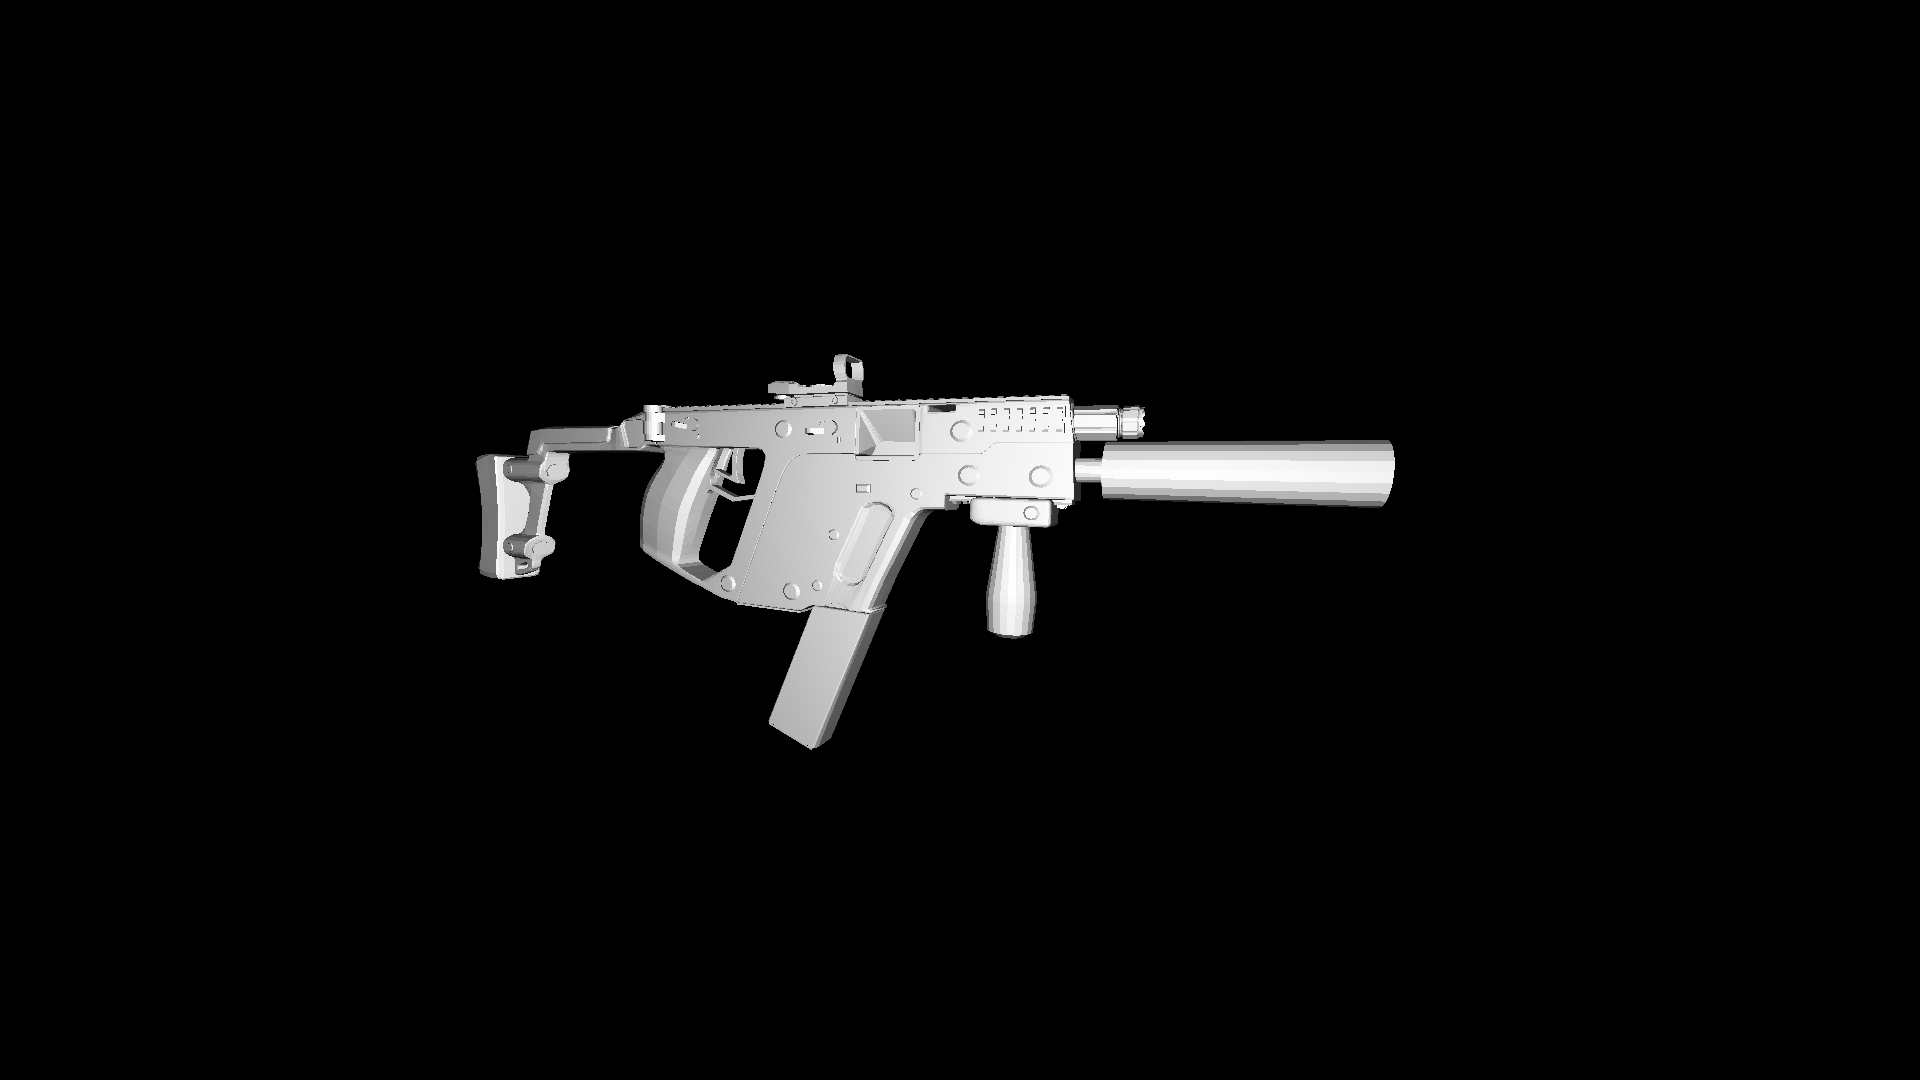
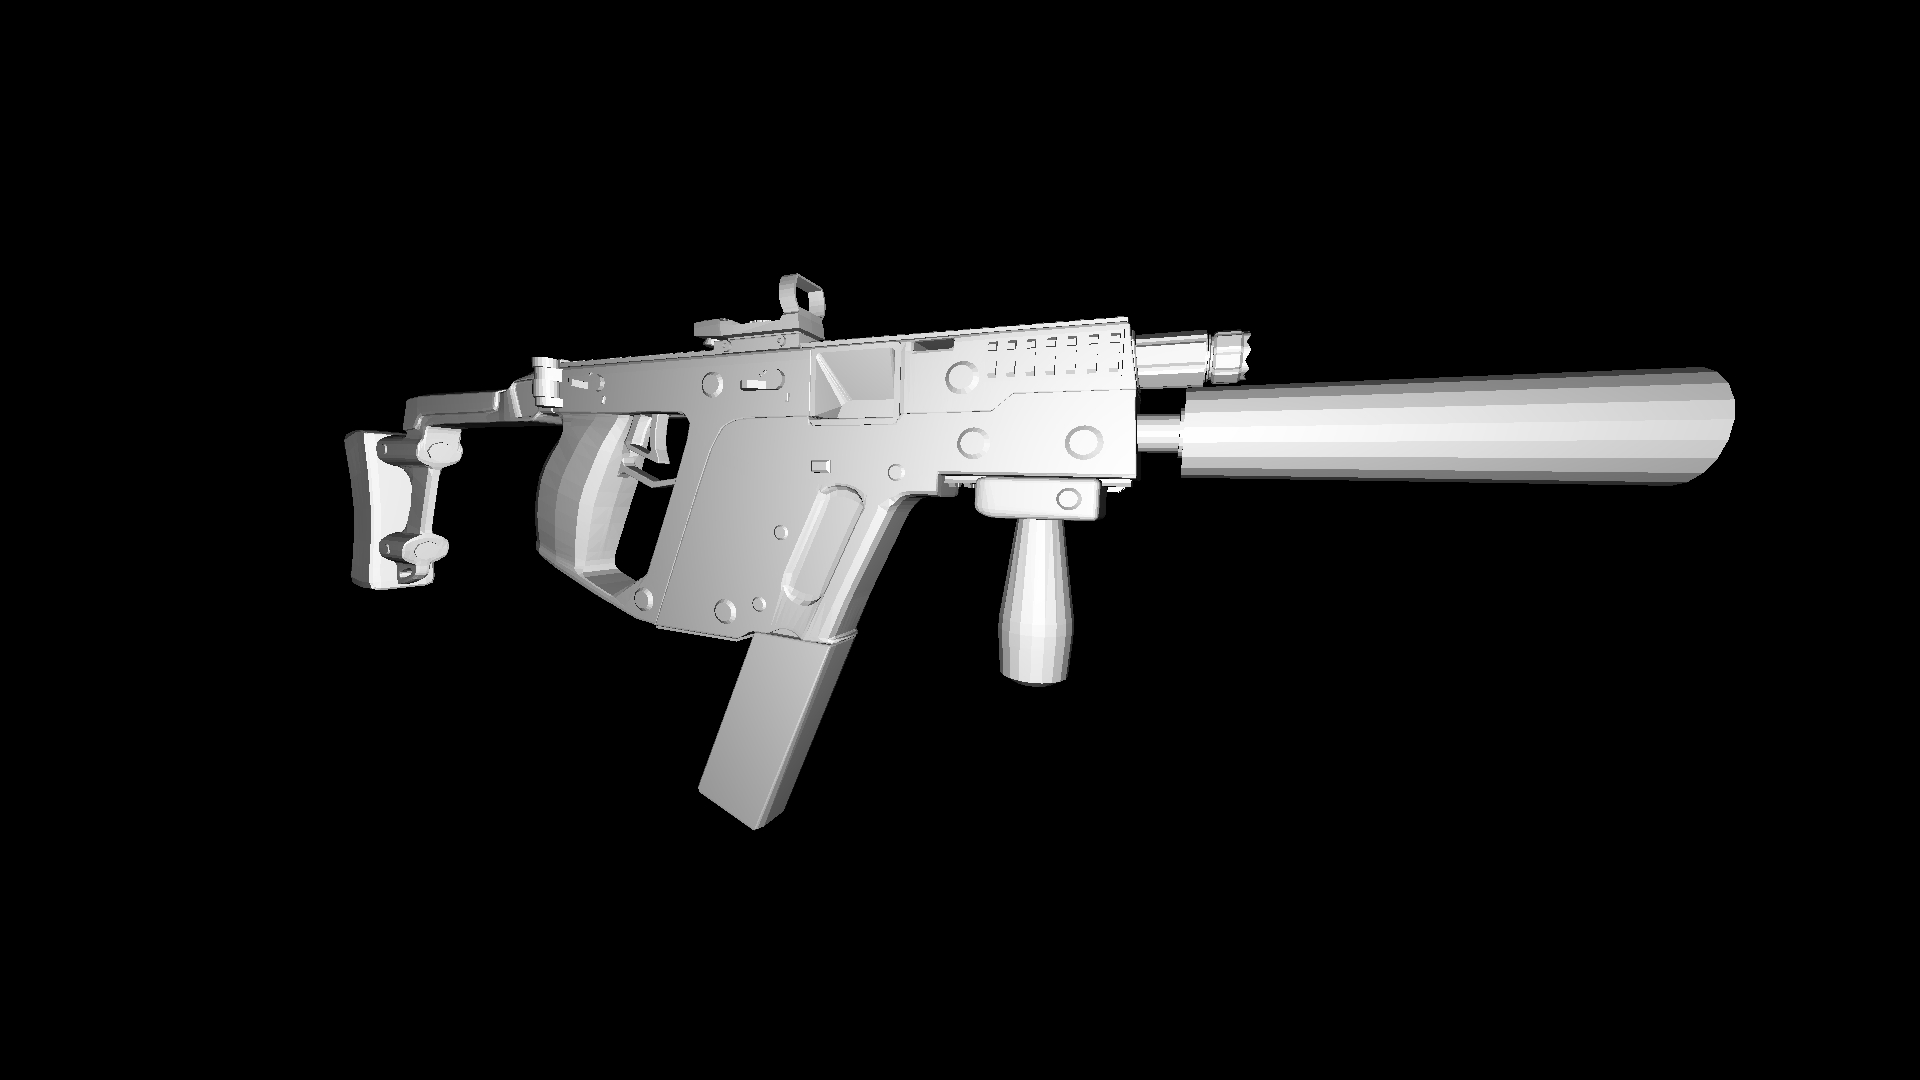
Updated zbuffer image

Changed region(s): [[0.1562, 0.2444, 0.9062, 0.7639]]

diff --git a/main.c b/main.c
@@ -74,7 +74,7 @@ int main() {
         { cosf(angle), 0, sinf(angle), 0 },
         { 0, 1, 0, 0 },
         { -sinf(angle), 0, cosf(angle), 0 },
-        { 0, 0, 0, 1 }
+        { 0, 0, 1, 1 }
     };
 
     unsigned char backgroundColor = 0;
@@ -85,7 +85,7 @@ int main() {
     // Convert zBuffer to image
     unsigned char* zBufferImage = malloc(size * sizeof(unsigned char*));
     for (int i = 0; i < size; ++i) {
-        zBufferImage[i] = (unsigned char)(zBuffer[i]);
+        zBufferImage[i] = (unsigned char)(zBuffer[i] / FAR_CLIPPING * 255);
     }
 
     stbi_write_jpg("../output.jpg", width, height, 1, frameBuffer, width * (int)sizeof(unsigned char));

diff --git a/src/include/rasterizer.h b/src/include/rasterizer.h
@@ -16,7 +16,7 @@
 #endif
 
 #ifndef FAR_CLIPPING
-    #define FAR_CLIPPING 10000
+    #define FAR_CLIPPING 10
 #endif
 
 /**
